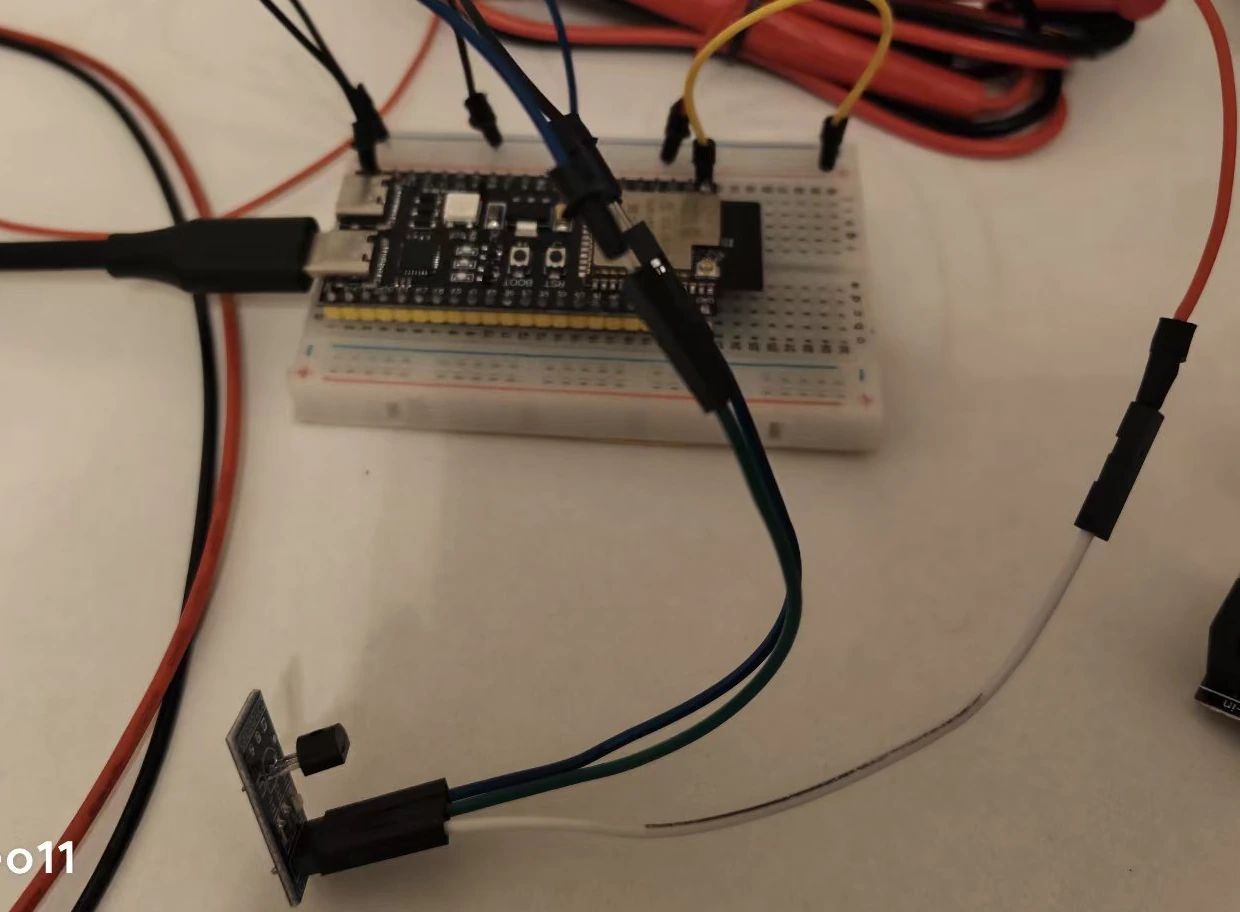
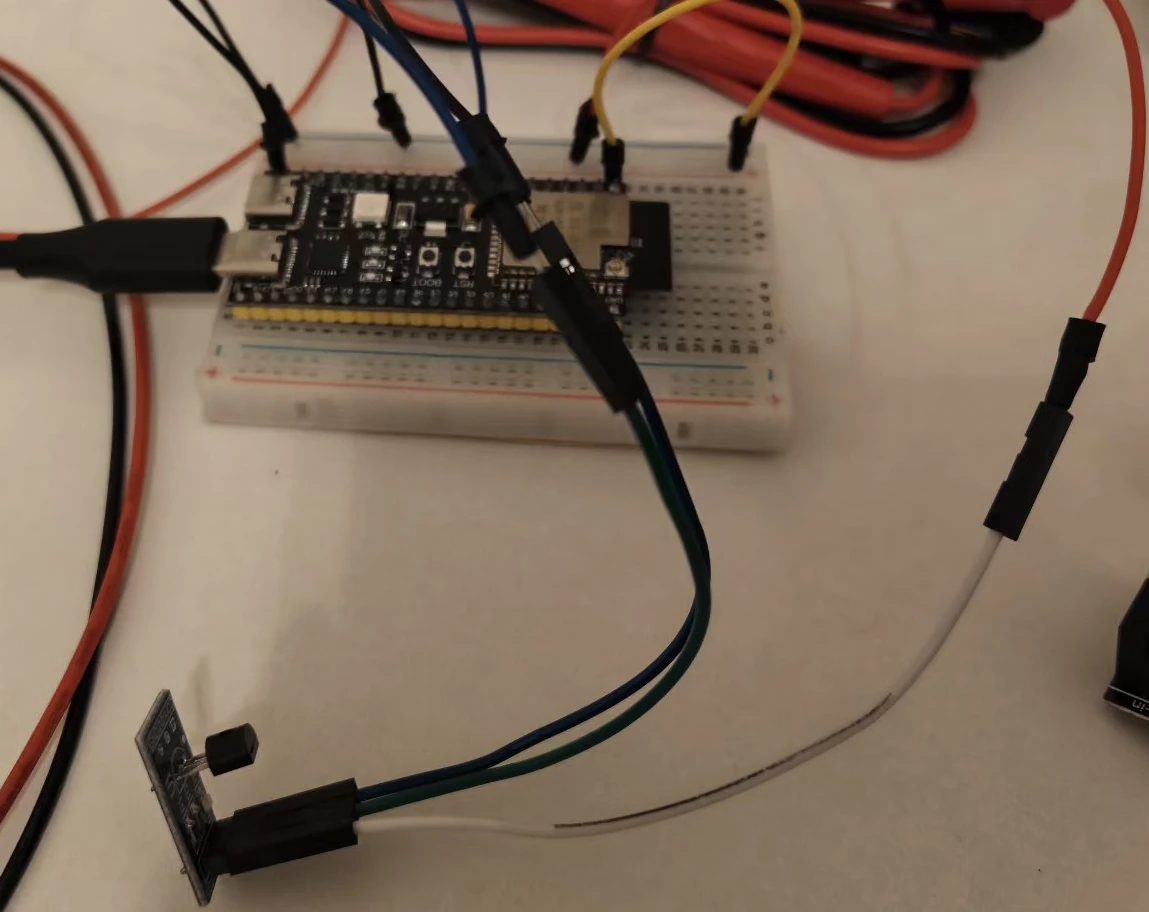
Fit wiring navigation on narrow phones

diff --git a/site/index.html b/site/index.html
@@ -222,7 +222,7 @@
       <details class="wiring-overview">
         <summary>查看整套实物接线</summary>
         <figure>
-          <img src="./assets/wiring/bench-overview.webp" width="1240" height="912" loading="lazy" decoding="async" alt="实物接线总览，开发板插在面包板上，通过跳线连接左下方的三针温度模块。">
+          <img src="./assets/wiring/bench-overview.webp" width="1149" height="912" loading="lazy" decoding="async" alt="实物接线总览，开发板插在面包板上，通过跳线连接左下方的三针温度模块。">
           <figcaption>照片里用面包板做了转接。初次接线只需对照三组针脚和上拉检查，无需照搬额外跳线。<a href="https://github.com/bealuxDream/temperature-emotion-box/blob/main/docs/hardware.md">查看硬件与联调文档 ↗</a></figcaption>
         </figure>
       </details>

diff --git a/site/style.css b/site/style.css
@@ -331,6 +331,6 @@ svg.pullup-diagram { display: block; width: min(100%, 440px); height: auto; marg
   .wiring-checklist { padding: 14px 15px; }
 }
 @media (max-width: 375px) {
-  .top-nav { gap: 2px; }
-  .top-nav a { padding-inline: 9px; }
+  .top-nav { gap: 2px; max-width: 100%; flex-wrap: wrap; font-size: 12px; }
+  .top-nav a { padding-inline: 7px; }
 }
